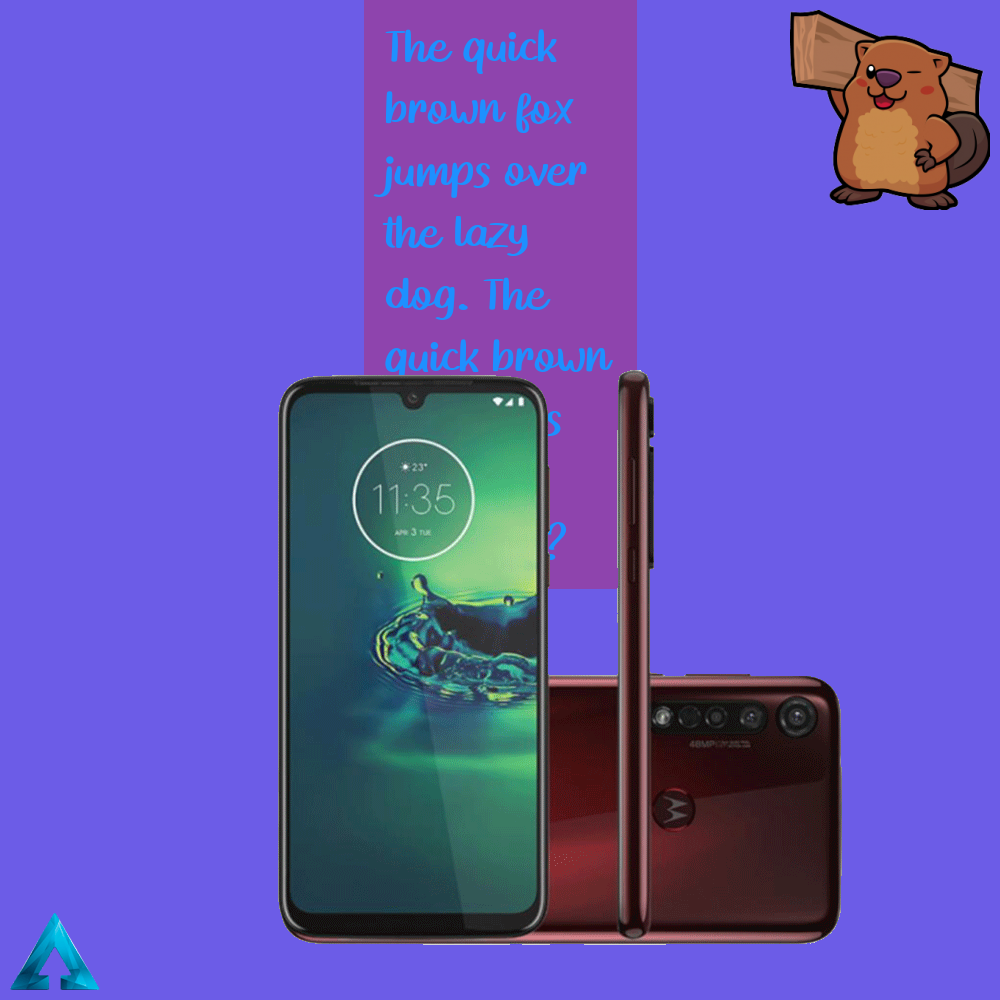
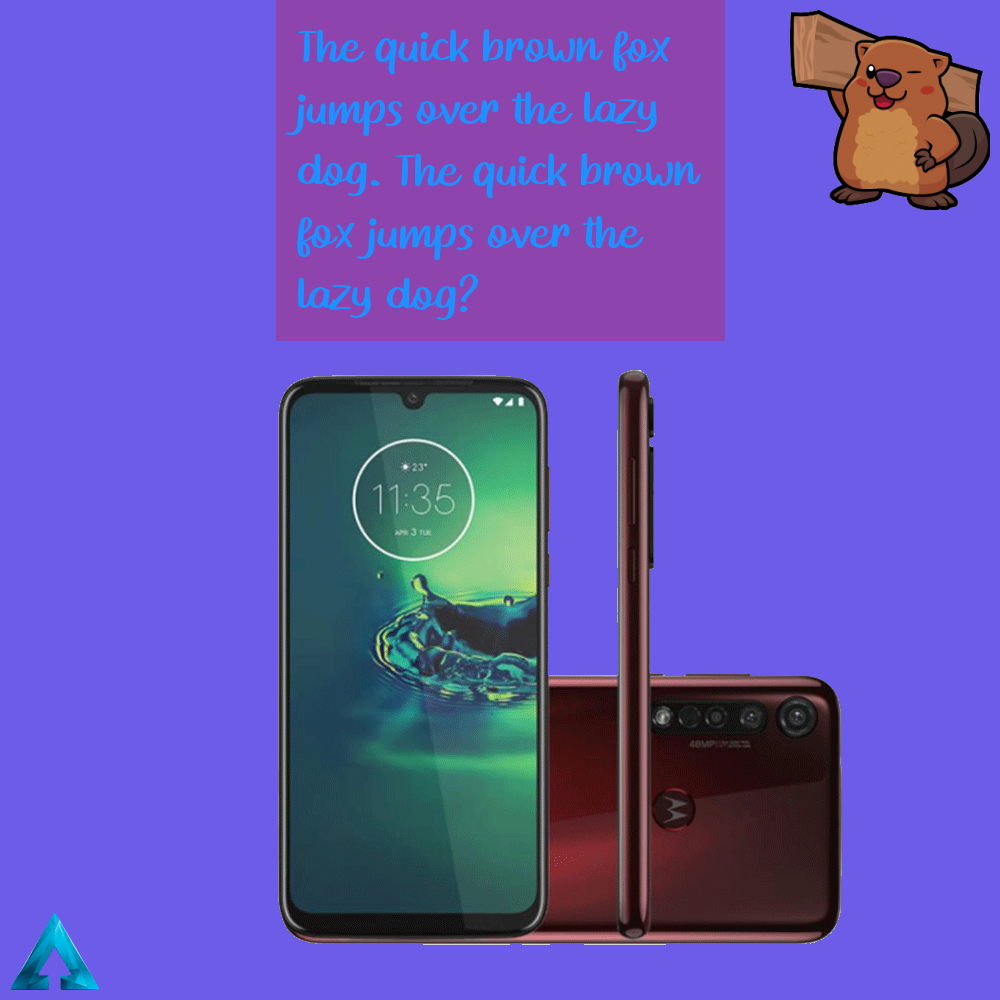
Refatorando

Changed region(s): [[0.279, 0.0, 0.744, 0.589]]

diff --git a/index.php b/index.php
@@ -8,40 +8,41 @@ use Intervention\Image\ImageManagerStatic as Image;
 
 class ImageService
 {
+    public $component;
+
     public function generate(array $data)
     {
         $img = $this->getBg($data['bg']);
 
-        foreach ($data['components'] as $component) {
-            if (isset($component['img'])) {
-                $imgCustom = Image::make($component['img']);
-                $imgCustom->resize($component['width'] ?? $imgCustom->getWidth(), $component['width'] ?? $imgCustom->getHeight());
-                $img->insert($imgCustom, $component['position'] ?? '', $component['x'], $component['y']);
+        foreach ($data['components'] as $this->component) {
+            if (isset($this->component['img'])) {
+                $imgCustom = Image::make($this->component['img']);
+                $imgCustom->resize($this->component['width'] ?? $imgCustom->getWidth(), $this->component['width'] ?? $imgCustom->getHeight());
+                $img->insert($imgCustom, $this->component['position'] ?? '', $this->component['x'], $this->component['y']);
             }
 
-            if (isset($component['text'])) {
-                $size   = $this->getSize($component['size'], $component['font']);
+            if (isset($this->component['text'])) {
+                $size   = $this->getSize();
 
-                $teste = $this->limitByWidth($component['size'], $component['font'], $component['text'], $component['width']);
-
-                $lines  = explode("\n", wordwrap($component['text'], $teste));
+                $limit  = $this->limitByWidth();
+                $lines  = explode("\n", wordwrap($this->component['text'], $limit ));
                 $y      = $size['height'] * 2;
-                $width  = $this->maxWidth($lines, $component['size'], $component['font']) + ($size['width'] * 2);
+                $width  = $this->maxWidth($lines) + ($size['width'] * 2);
                 $height = ((count($lines) + 1) * $y) - $size['height'];
 
-                $txt    = Image::canvas($width, $height, $this->getRgba($component['bg-color']));
+                $txt    = Image::canvas($width, $height, $this->getRgba($this->component['bg-color']));
 
                 foreach ($lines as $line) {
-                    $txt->text($line, $size['width'], $y, function ($font) use ($component) {
-                        $font->file($component['font']);
-                        $font->size($component['size']);
-                        $font->color($component['color']);
+                    $txt->text($line, $size['width'], $y, function ($font) {
+                        $font->file($this->component['font']);
+                        $font->size($this->component['size']);
+                        $font->color($this->component['color']);
                     });
 
                     $y += $size['height'] * 2;
                 }
 
-                $img->insert($txt, $component['position'] ?? '', $component['x'], $component['y']);
+                $img->insert($txt, $this->component['position'] ?? '', $this->component['x'], $this->component['y']);
             }
 
         }
@@ -49,21 +50,21 @@ class ImageService
         return $img->save('public/results/teste.png', 100, 'png');
     }
 
-    public function getSize($size, $file, $text = '0')
+    public function getSize($text = '0')
     {
         $font = new Font($text);
-        $font->file($file);
-        $font->size($size);
+        $font->file($this->component['font']);
+        $font->size($this->component['size']);
 
         return $font->getBoxSize();
     }
 
-    public function maxWidth(array $lines, int $size, string $file): int
+    public function maxWidth(array $lines): int
     {
         $widths = [];
 
         foreach ($lines as $line) {
-            $widths[] = $this->getSize($size, $file, $line)['width'];
+            $widths[] = $this->getSize($line)['width'];
         }
 
         return max($widths);
@@ -87,26 +88,20 @@ class ImageService
         return Image::make($bg);
     }
 
-    public function limitByWidth($size, $font, $txt, $width)
+    public function limitByWidth()
     {
         $str = '';
 
-        foreach (str_split($txt) as $letter) {
+        foreach (str_split($this->component['text']) as $letter) {
             $str .= $letter;
 
-            $box = $this->getSize($size, $font, $str);
-
-            if ($box['width'] >= $width) {
+            $box = $this->getSize($str);
+            if ($box['width'] >= $this->component['width']) {
                 return strlen($str);
             }
         }
     }
 }
-
-// $txt = 'The quick brown fox jumps over the lazy dog. The quick brown fox jumps over the lazy dog?';
-// $width  = (new ImageService())->limitByWidth(30, 'public/model/fonts/Homework.ttf', $txt, 300);
-// var_dump($width);exit;
-
 
 $template = json_decode(file_get_contents('./public/model/templates/second.json'), true);
 $post     = json_decode(file_get_contents('./public/model/posts/second.json'), true);
